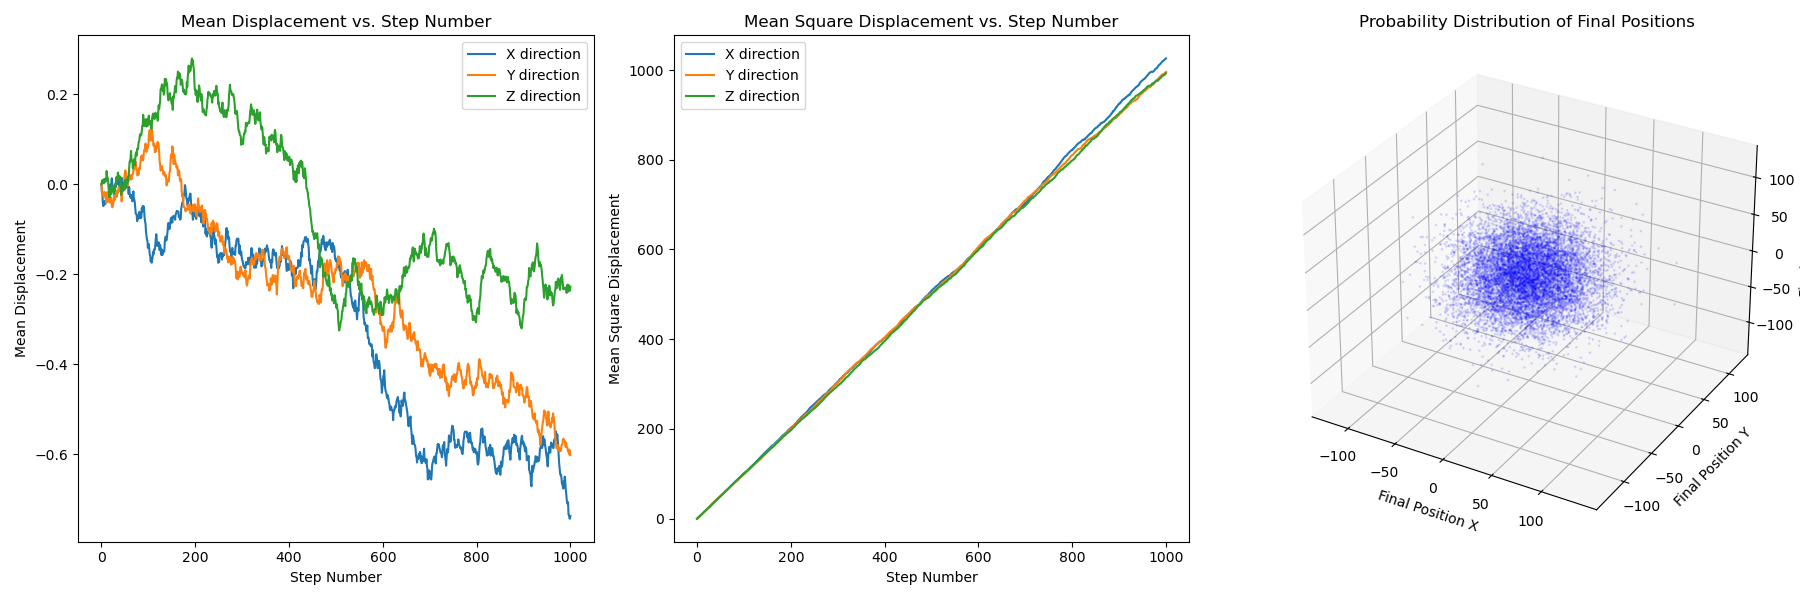
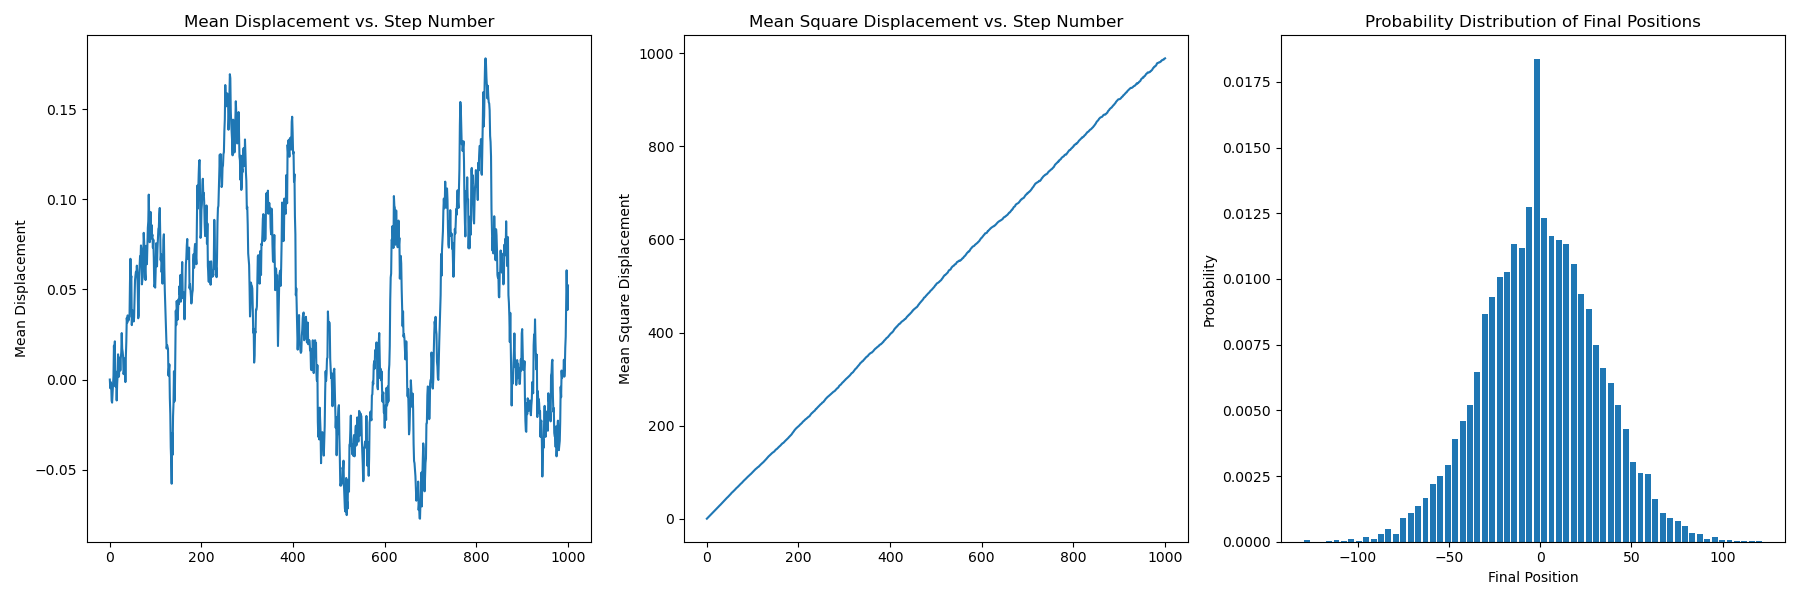
Reduced Bloat

diff --git a/random_walk.py b/random_walk.py
@@ -24,91 +24,39 @@ def simulate_random_walk(dim, n_steps, n_walks):
 
 
 def plot_results(dim, mean_displacement, mean_square_displacement, final_positions, n_walks):
-    if dim == 1:
-        # Plot 1D
-        plt.figure(figsize=(18, 6))
-        plt.subplot(1, 3, 1)
-        plt.plot(mean_displacement)
-        plt.title('Mean Displacement vs. Step Number')
-        plt.xlabel('Step Number')
-        plt.ylabel('Mean Displacement')
+    plt.figure(figsize=(18, 6))
 
-        plt.subplot(1, 3, 2)
-        plt.plot(mean_square_displacement)
-        plt.title('Mean Square Displacement vs. Step Number')
-        plt.xlabel('Step Number')
-        plt.ylabel('Mean Square Displacement')
+    for i in range(3):
+        plt.subplot(1, 3, i + 1)
+        if i == 0:
+            plt.plot(mean_displacement)
+            plt.title('Mean Displacement vs. Step Number')
+            plt.ylabel('Mean Displacement')
+        elif i == 1:
+            plt.plot(mean_square_displacement)
+            plt.title('Mean Square Displacement vs. Step Number')
+            plt.ylabel('Mean Square Displacement')
+        else:
+            if dim == 1:
+                plt.hist(final_positions, bins='auto', density=True, rwidth=0.8)
+                plt.title('Probability Distribution of Final Positions')
+                plt.xlabel('Final Position')
+                plt.ylabel('Probability')
+            elif dim == 2:
+                plt.scatter(final_positions[:, 0], final_positions[:, 1], c='blue', alpha=0.1, s=1)
+                plt.title('Probability Distribution of Final Positions')
+                plt.xlabel('Final Position X')
+                plt.ylabel('Final Position Y')
+            elif dim == 3:
+                ax = plt.subplot(1, 3, 3, projection='3d')  # Create a new subplot with 3D projection
+                ax.scatter(final_positions[:, 0], final_positions[:, 1], final_positions[:, 2], c='blue', alpha=0.1, s=1)
+                ax.set_title('Probability Distribution of Final Positions')
+                ax.set_xlabel('Final Position X')
+                ax.set_ylabel('Final Position Y')
+                ax.set_zlabel('Final Position Z')
 
-        plt.subplot(1, 3, 3)
-        plt.hist(final_positions, bins='auto', density=True)
-        plt.title('Probability Distribution of Final Positions')
-        plt.xlabel('Final Position')
-        plt.ylabel('Probability')
-
-        plt.tight_layout()
-    elif dim == 2:
-        # Plot 2D
-        plt.figure(figsize=(18, 6))
-
-        plt.subplot(1, 3, 1)
-        plt.plot(mean_displacement[:, 0], label='X direction')
-        plt.plot(mean_displacement[:, 1], label='Y direction')
-        plt.title('Mean Displacement vs. Step Number')
-        plt.xlabel('Step Number')
-        plt.ylabel('Mean Displacement')
-        plt.legend()
-
-        plt.subplot(1, 3, 2)
-        plt.plot(mean_square_displacement[:, 0], label='X direction')
-        plt.plot(mean_square_displacement[:, 1], label='Y direction')
-        plt.title('Mean Square Displacement vs. Step Number')
-        plt.xlabel('Step Number')
-        plt.ylabel('Mean Square Displacement')
-        plt.legend()
-
-        plt.subplot(1, 3, 3)
-        plt.scatter(final_positions[:, 0], final_positions[:, 1], c='blue', alpha=0.1, s=1)
-        plt.title('Probability Distribution of Final Positions')
-        plt.xlabel('Final Position X')
-        plt.ylabel('Final Position Y')
-
-        plt.tight_layout()
-        plt.show()
-
-    elif dim == 3:
-        # Plot Mean Displacement vs. Step Number
-        plt.figure(figsize=(18, 6))
-
-        plt.subplot(1, 3, 1)
-        plt.plot(mean_displacement[:, 0], label='X direction')
-        plt.plot(mean_displacement[:, 1], label='Y direction')
-        plt.plot(mean_displacement[:, 2], label='Z direction')
-        plt.title('Mean Displacement vs. Step Number')
-        plt.xlabel('Step Number')
-        plt.ylabel('Mean Displacement')
-        plt.legend()
-
-        # Plot Mean Square Displacement vs. Step Number
-        plt.subplot(1, 3, 2)
-        plt.plot(mean_square_displacement[:, 0], label='X direction')
-        plt.plot(mean_square_displacement[:, 1], label='Y direction')
-        plt.plot(mean_square_displacement[:, 2], label='Z direction')
-        plt.title('Mean Square Displacement vs. Step Number')
-        plt.xlabel('Step Number')
-        plt.ylabel('Mean Square Displacement')
-        plt.legend()
-
-        # Plot Probability Distribution of Final Positions in 3D
-        plt.subplot(1, 3, 3, projection='3d')
-        ax = plt.gca()
-        scat = ax.scatter(final_positions[:, 0], final_positions[:, 1], final_positions[:, 2], c='blue', alpha=0.1, s=1)
-        ax.set_title('Probability Distribution of Final Positions')
-        ax.set_xlabel('Final Position X')
-        ax.set_ylabel('Final Position Y')
-        ax.set_zlabel('Final Position Z')
-
-        plt.tight_layout()
-        plt.show()
+    plt.tight_layout()
+    plt.show()
 
 def main():
     # Parameters
